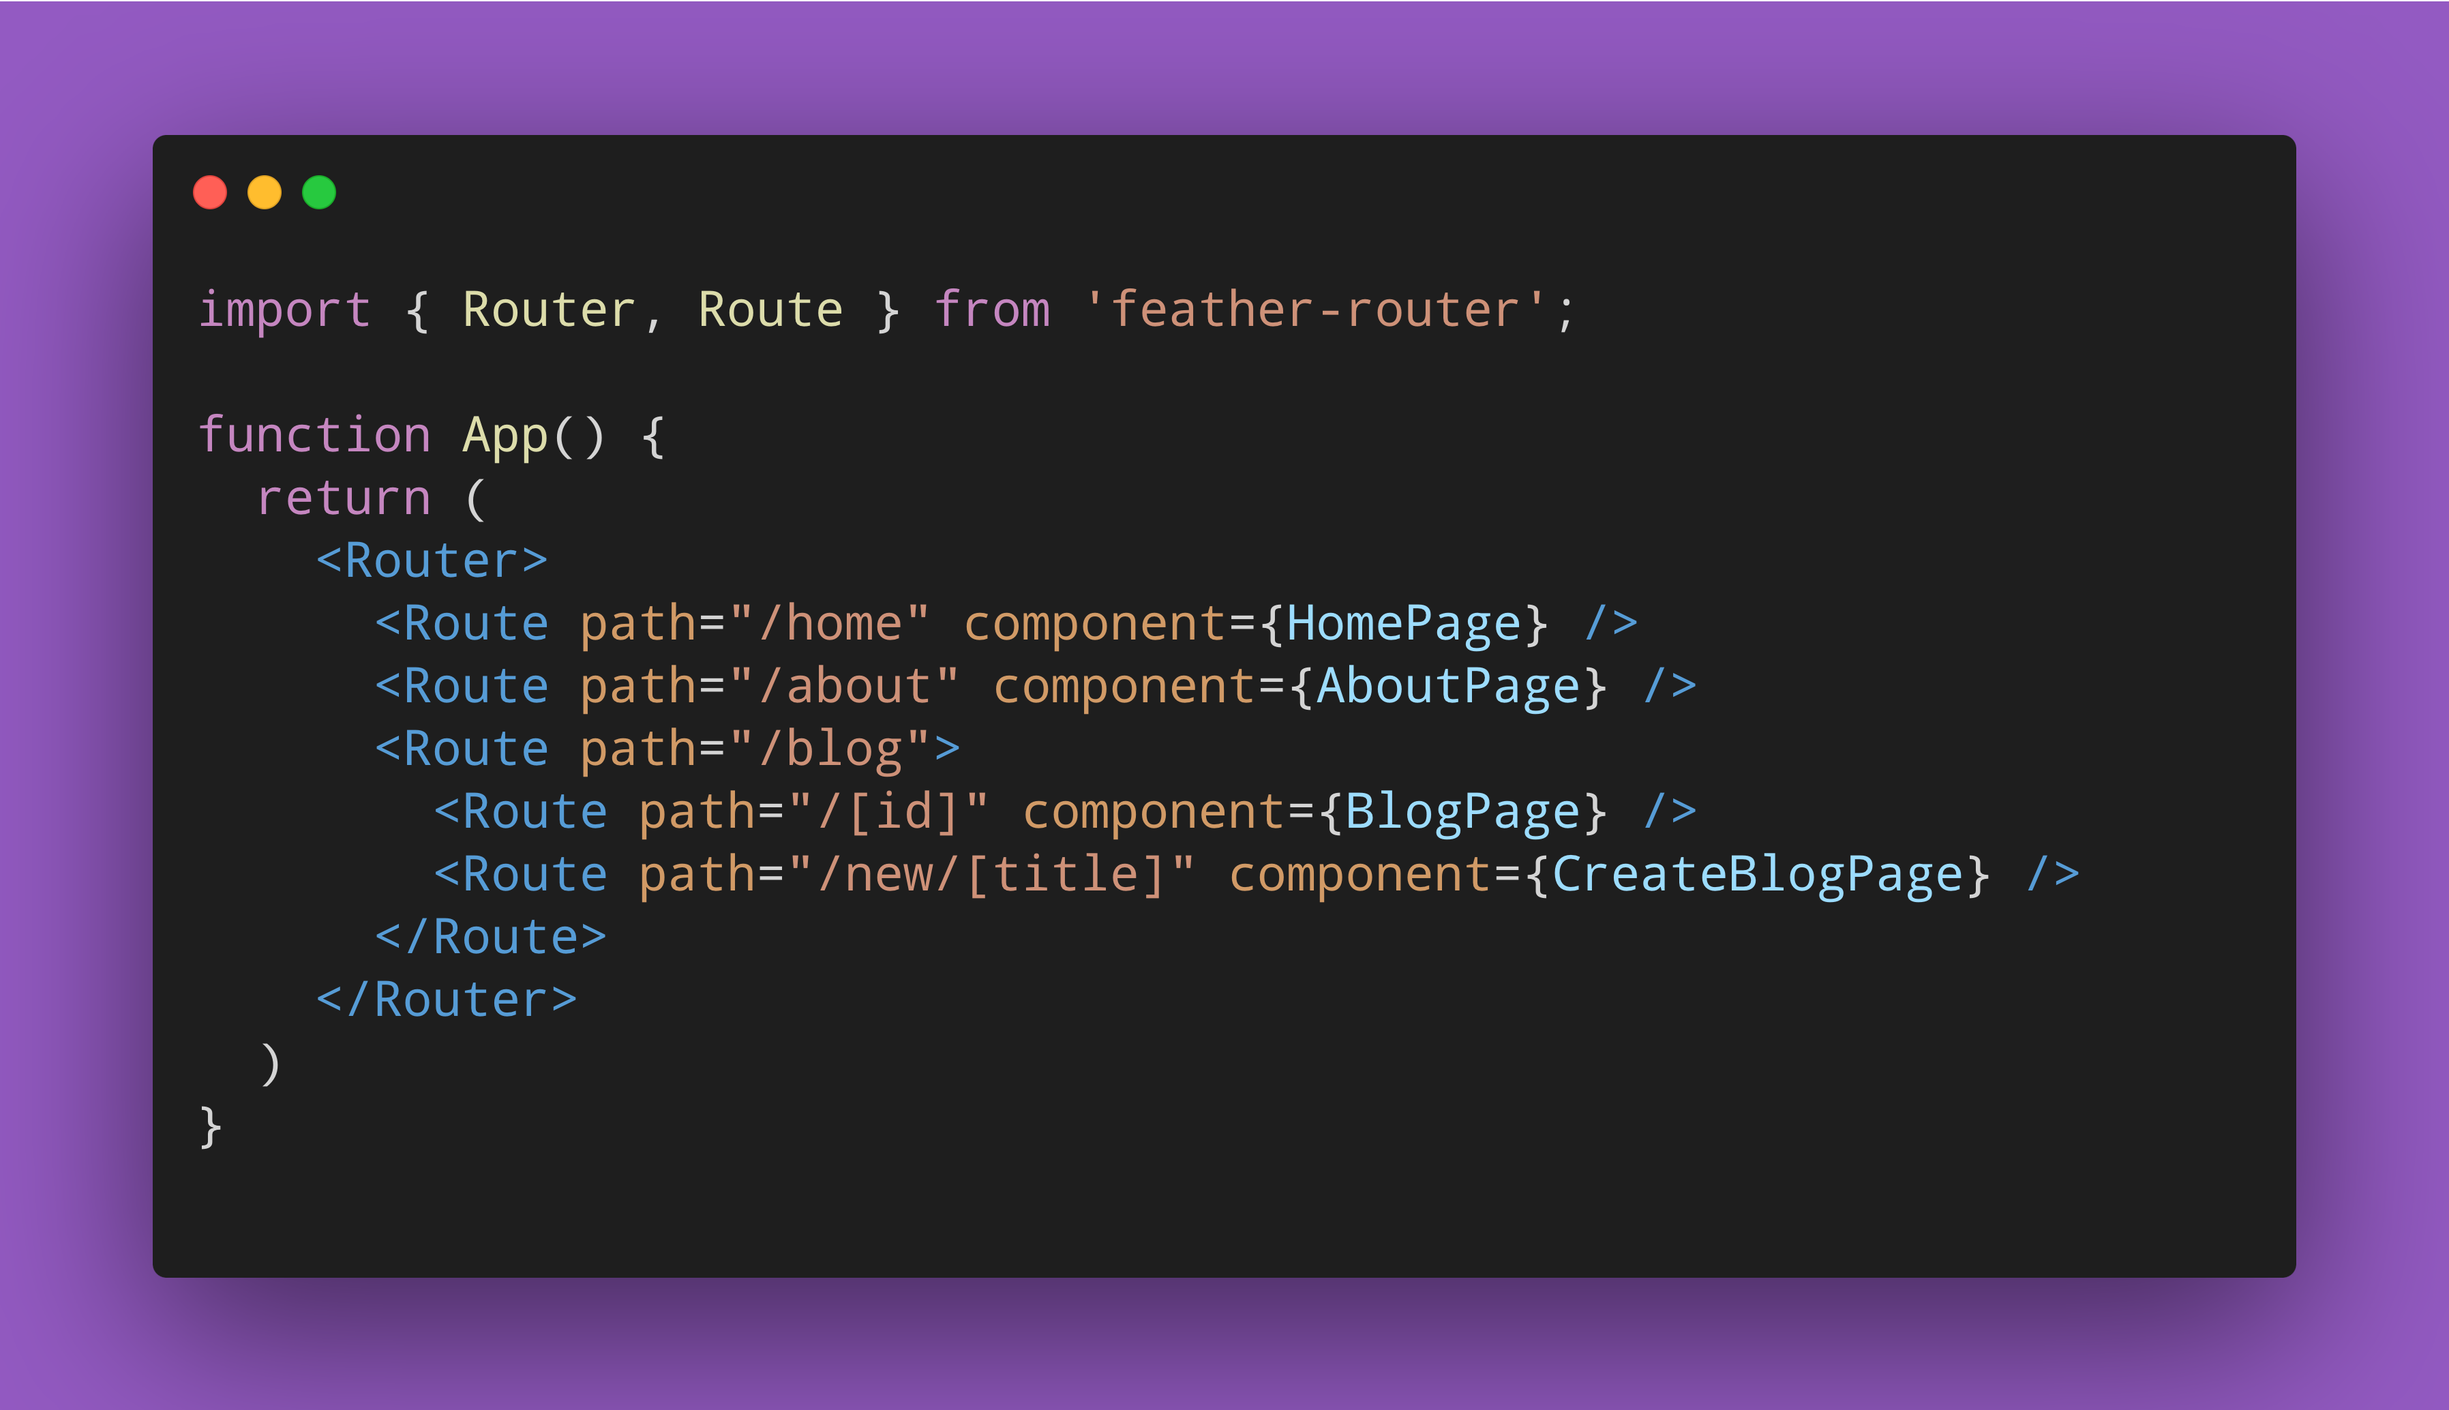
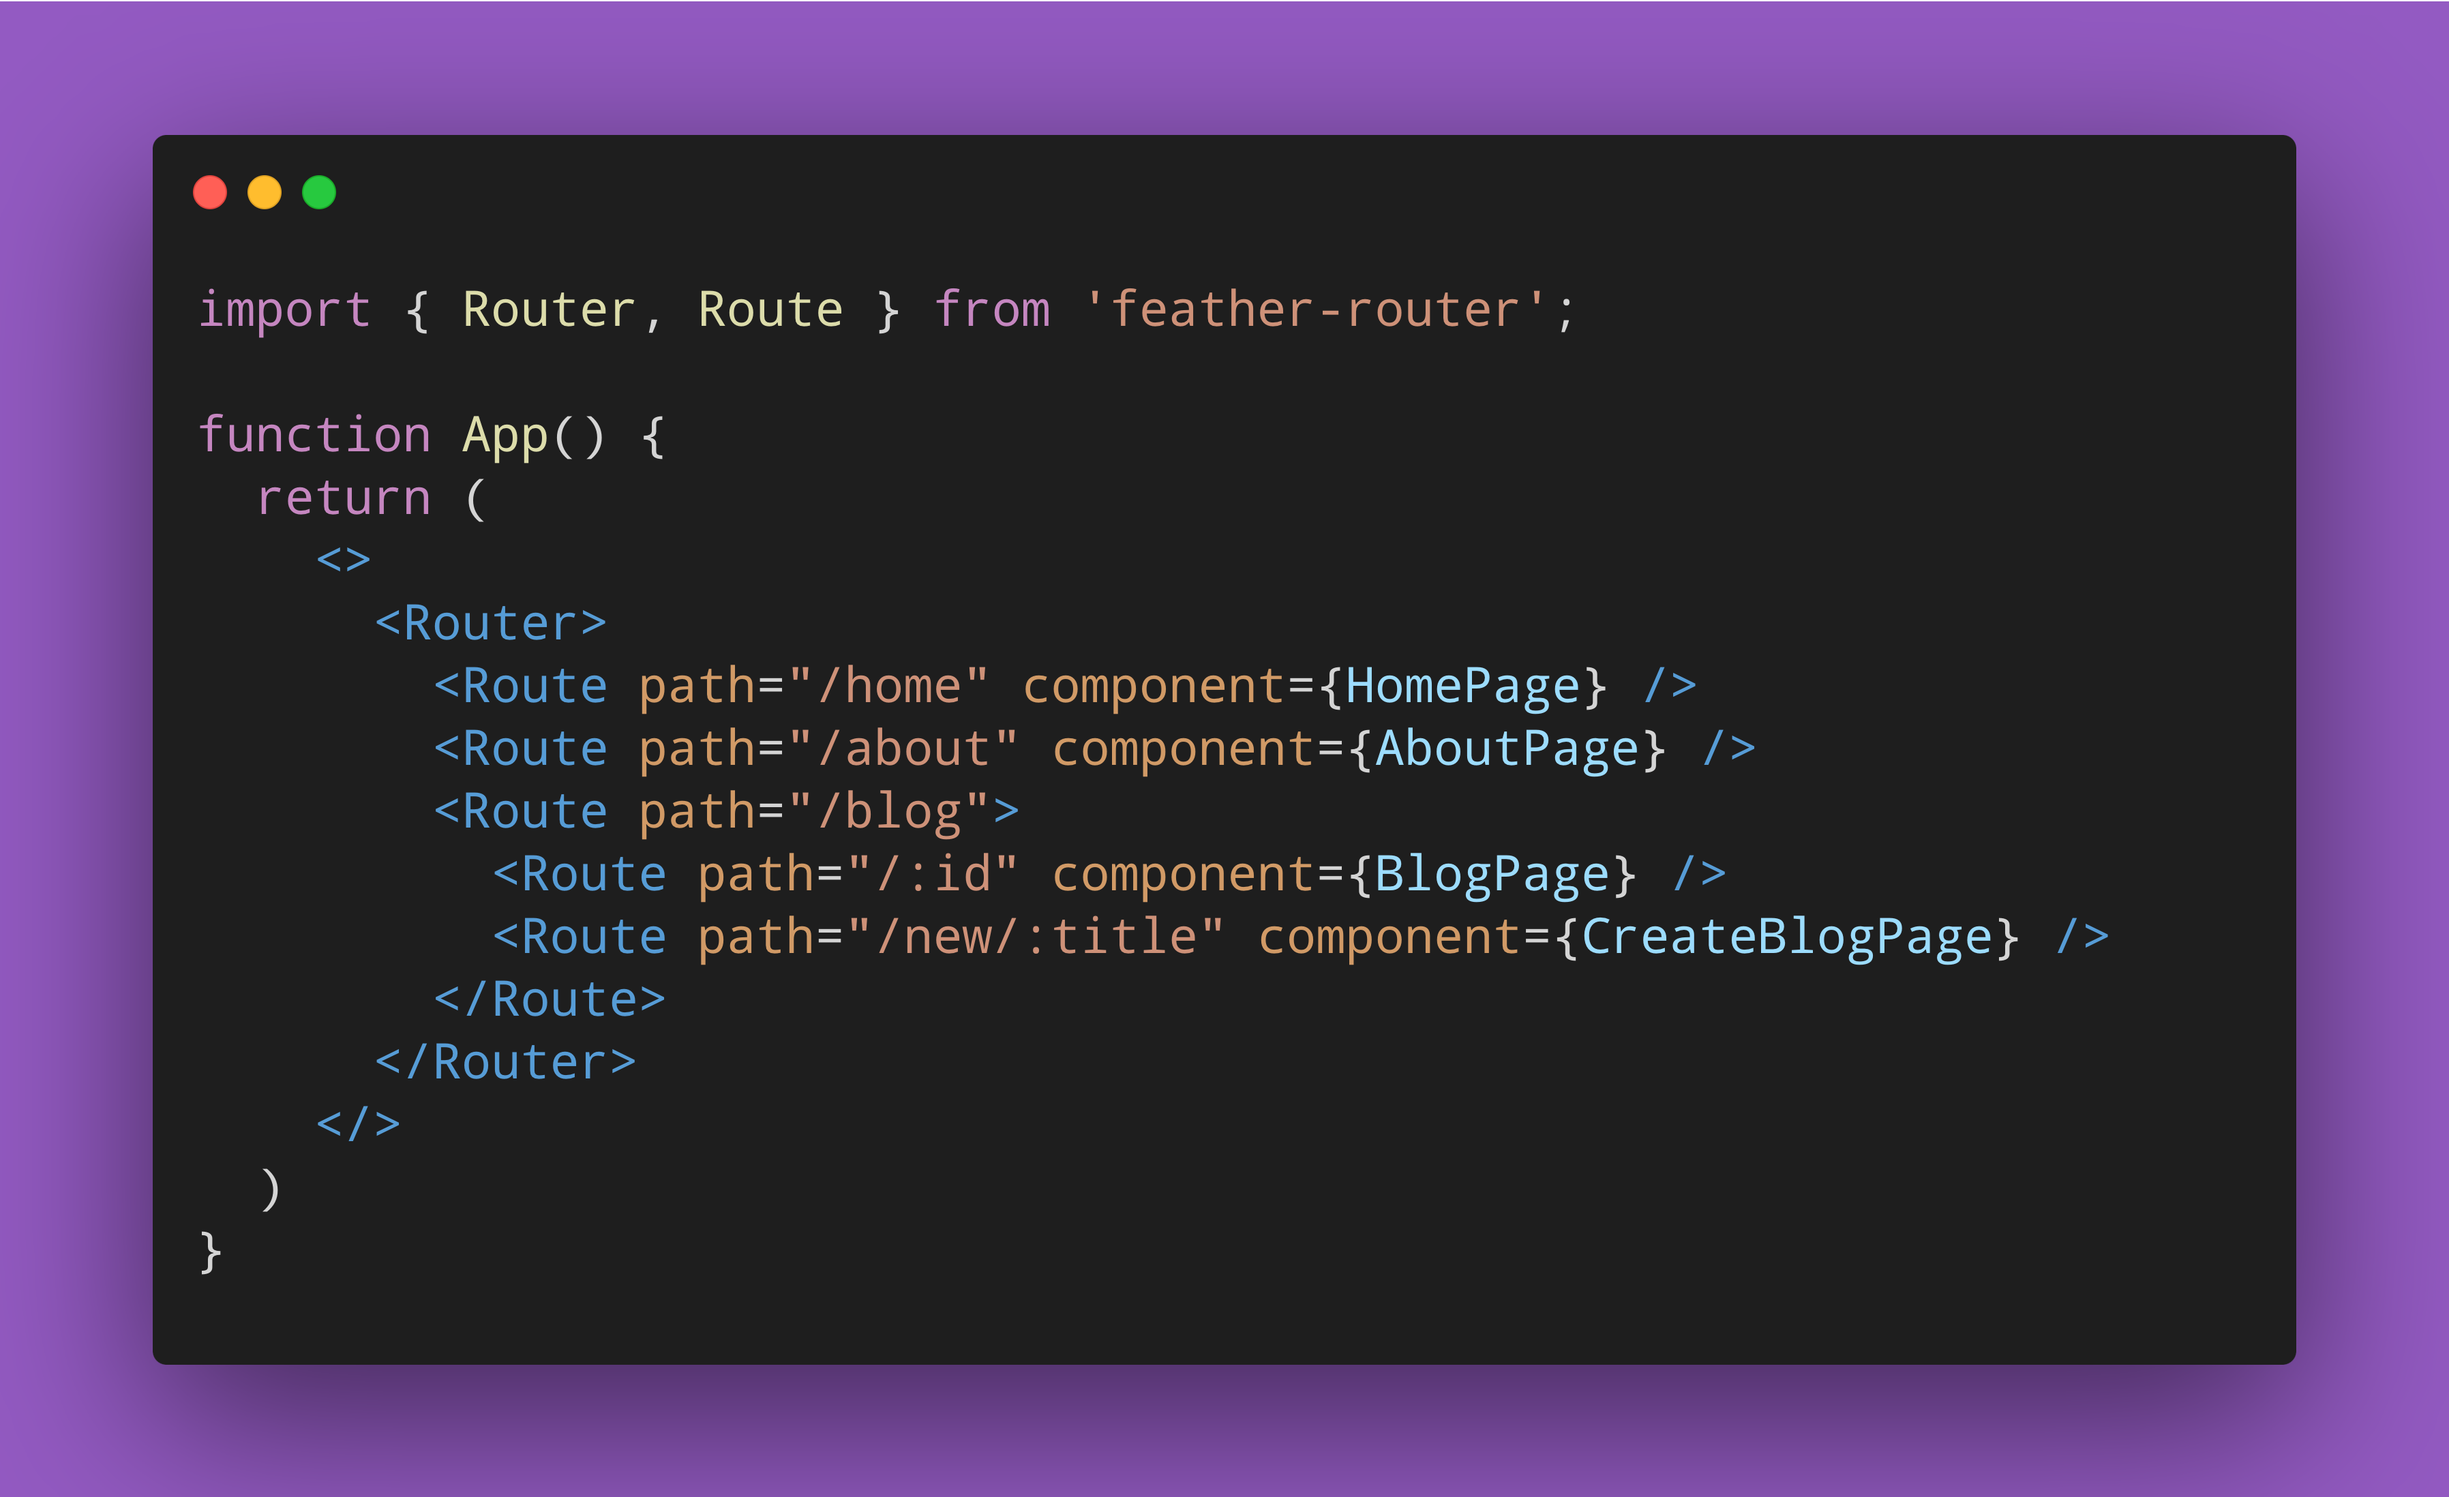
Switch dynamic segment syntax to use colons (:) instead of square brackets ([])

diff --git a/src/route.tsx b/src/route.tsx
@@ -33,7 +33,7 @@ function Route({ path, component: Component, ...props }: RouteProps) {
   // Update the parent Router when the route is mounted / unmounted
   useEffect(() => {
     // Regex for detecting if the Route is dynamic
-    const DYNAMIC_ROUTE_REGEX = /\/\[[^/]+?\]/;
+    const DYNAMIC_ROUTE_REGEX = /\/:[^/]+/;
     // Provide cleanup effect closure over the ref
     const ROUTE_ID_CLOSURE_VAR = ORDERED_ROUTE_ID.current;
 
@@ -77,12 +77,12 @@ function Route({ path, component: Component, ...props }: RouteProps) {
  * Each Route component provides a RouteContext, which contains the full parent path of the parent
  * In this case:
  * - The "/books" Route has a has no parent Route, and hence also has no parent RouteContext: fullParentPath = ""
- * - The "/[id]"" Route has a parent RouteContext: fullParentPath: fullParentPath = "/[id]"
- * - The "/purchase" Route has a parent RouteContext: "/books/[id]"
+ * - The "/:id"" Route has a parent RouteContext: fullParentPath: fullParentPath = "/:id"
+ * - The "/purchase" Route has a parent RouteContext: "/books/:id"
  * @example
  * <Router>
  *  <Route path="/books">
- *    <Route path="/[id]">
+ *    <Route path="/:id">
  *      <Route path="/purchase" />
  *    </Route>
  *  </Route>

diff --git a/src/utils/generate-path-regex.ts b/src/utils/generate-path-regex.ts
@@ -4,14 +4,14 @@
 function generatePathRegex(unparsedPath: string) {
   // Regex for splitting the path up
   const PATH_PARSE_REGEX = /(?:\/([^/]+))+?/g;
-  // /books/[id]/view => MATCH: books [id] view
+  // /books/[id]/view => MATCH: books :id view
   const pathSegments = Array.from(unparsedPath.matchAll(PATH_PARSE_REGEX), (match) => match[1]);
-  // pathSegments looks like ["books", "[id]", "view"]
+  // pathSegments looks like ["books", ":id", "view"]
 
-  const DYNAMIC_SEGMENT_REGEX = /\[(?<param_name>.+?)\]/g;
-  // [id] => MATCH: id
+  const DYNAMIC_SEGMENT_REGEX = /:(?<param_name>.+)/g;
+  // :id => MATCH: id
 
-  let regexString = "^";
+  let regexString = escapeString("^");
   pathSegments.forEach((segment) => {
     regexString += "\\/";
     if (segment.match(DYNAMIC_SEGMENT_REGEX)) {
@@ -21,7 +21,7 @@ function generatePathRegex(unparsedPath: string) {
       regexString += escapeString(segment);
     }
   });
-  regexString += "$";
+  regexString += escapeString("$");
   return RegExp(regexString, "i");
 }
 

diff --git a/src/router.tsx b/src/router.tsx
@@ -13,8 +13,8 @@ interface RouterProps {
  * <Router>
  *  <Route path="/home" component={HomePage} />
  *  <Route path="/blog" component={BlogPage}>
- *    <Route path="/[id]" component={BlogPage} /> // By default, router will inject id as a prop into BlogPage
- *    <Route path="/new/[id]" component={CreateBlogPage} />
+ *    <Route path="/:id" component={BlogPage} /> // By default, router will inject id as a prop into BlogPage
+ *    <Route path="/new/:id" component={CreateBlogPage} />
  *  </Route>
  * </Router>
  *

diff --git a/README.md b/README.md
@@ -107,9 +107,9 @@ The Route component defines the React component that should be rendered for a gi
 - `path` is a **required property**. It is a string which represents the browser path of the `<Route />`. It must start with a forward slash `/`.
 - `component` is **an optional property**. It is the React component that will be rendered if the browser path matches the path specified by the `<Route />`
 
-`<Route />` components can use wildcard **dynamic segments** in their path to match anything. The syntax for creating a dynamic segment is square brackets: `[property_name]`.
+`<Route />` components can use wildcard **dynamic segments** in their path to match anything. The syntax for creating a dynamic segment is a colon `:property_name`.
 
-> **Example**: `<Route path="/user/[id]" component={UserPage} />`
+> **Example**: `<Route path="/user/:id" component={UserPage} />`
 
 In the above example, browser URLs such as:
 
@@ -119,9 +119,9 @@ In the above example, browser URLs such as:
 
 Will all match the path specified by the example `<Route />`. The value of the dynamic segment (foo, bar, bazz) is extracted from the URL, and will be passed as a property to the `UserPage` component. The name of the property in this example is `id`.
 
-When you create a dynamic segment, Feather Router uses the text inside of the`[square_brackets]` as the property name. A path can have multiple dynamic segments.
+When you create a dynamic segment, Feather Router uses the text after the `:` (colon) as the property name. A path can have multiple dynamic segments.
 
-`<Route path="/[foo]/[bar]/[baz]" component={MyComponent} />` will pass properties named `foo`, `bar`, and `baz` to `MyComponent`.
+`<Route path="/:foo/:bar/:baz" component={MyComponent} />` will pass properties named `foo`, `bar`, and `baz` to `MyComponent`.
 
 `<Route />` components can also be nested within other `<Route />` components.
 
@@ -133,7 +133,7 @@ function App() {
     <Router>
       <Route path="/" component={HomePage}> /> // A
       <Route path="/blog"> // B
-        <Route path="/[blog_id]" component={BlogPage} /> // C
+        <Route path="/:blog_id" component={BlogPage} /> // C
         <Route path="/new" component={NewBlogPage} /> // D
       </Route>
     </Router>
